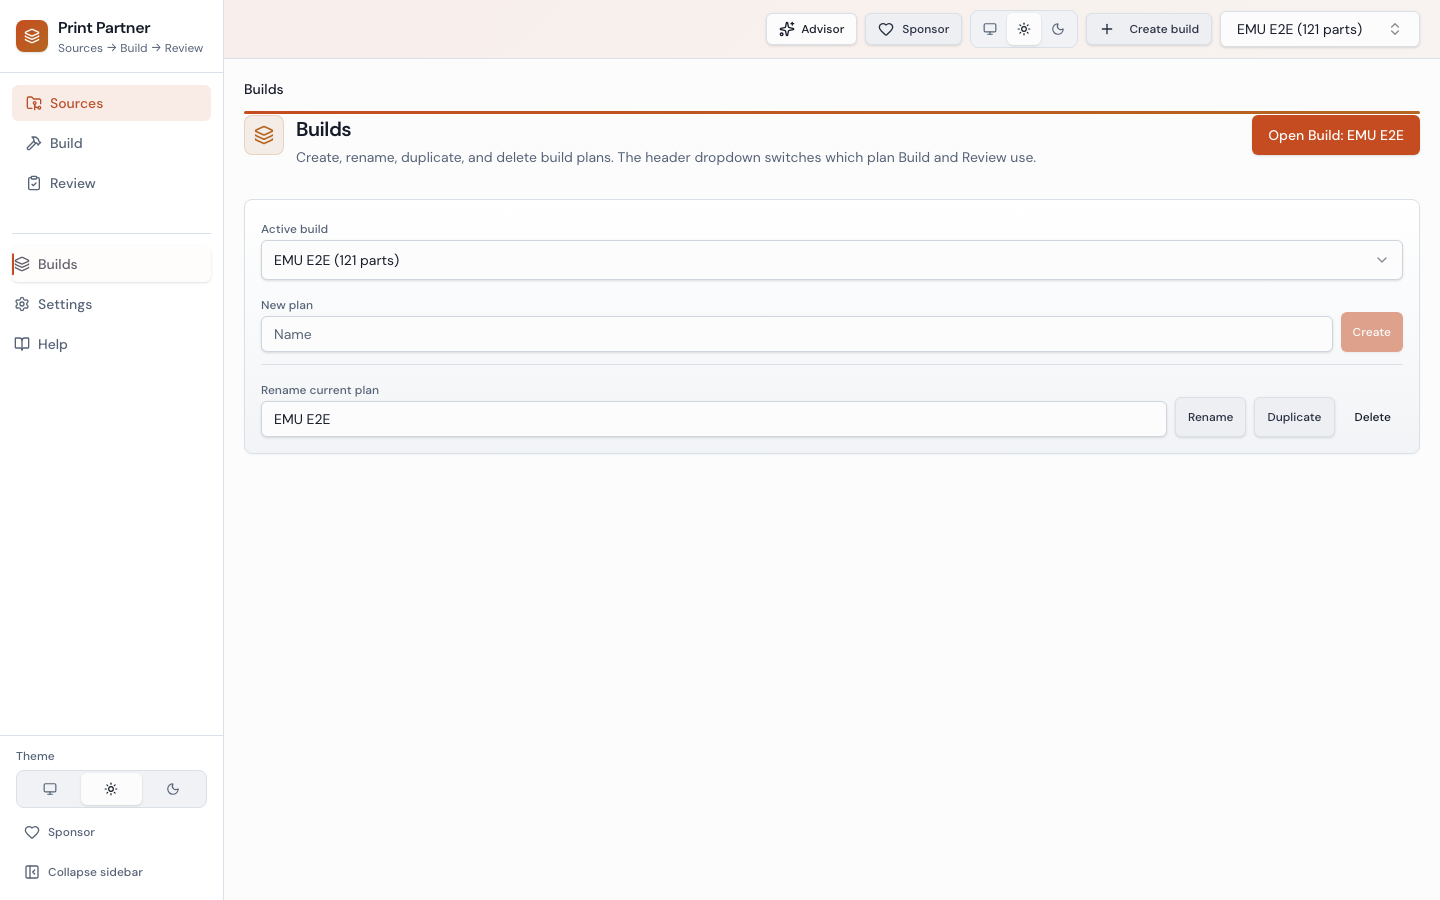
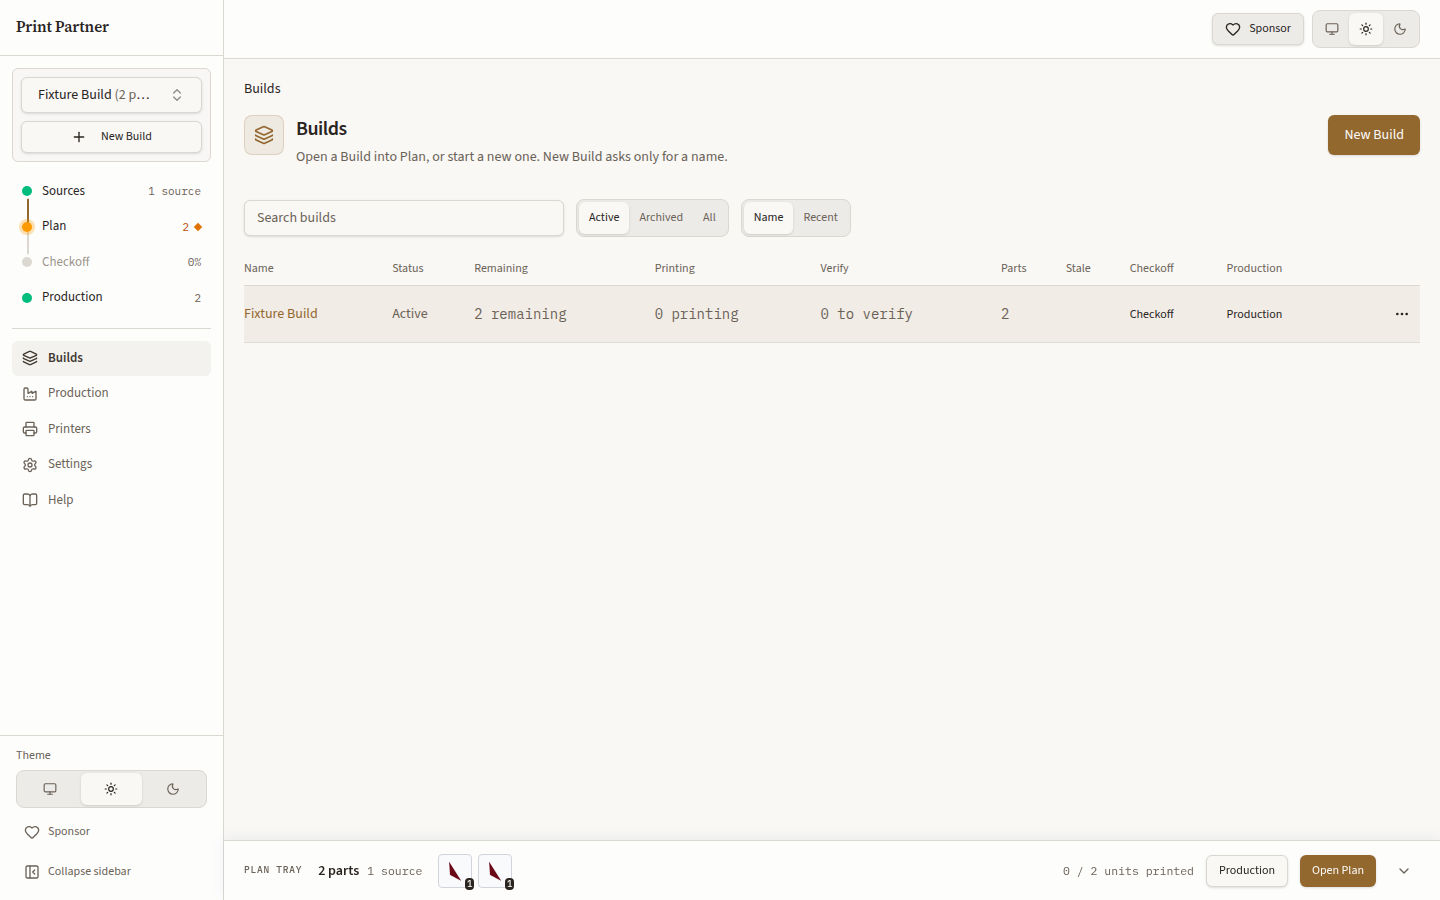
docs: recapture workflow screenshots with representative kit data
Replace stale Review/Advisor shots with the current Builds → Sources →
Plan → Checkoff → Production map, and embed Checkoff and Production PNGs
in the README and project site.

diff --git a/docs/index.html b/docs/index.html
@@ -258,30 +258,30 @@ docker compose pull && docker compose up -d</code></pre>
       </div>
 
       <div class="shot-block">
-        <p class="shot-title">Plans</p>
-        <p class="shot-desc">Dedicated plan manager — create, rename, duplicate, archive. Same actions from Create plan in the header.</p>
+        <p class="shot-title">Builds</p>
+        <p class="shot-desc">List-first home — New Build, open into Plan, archive, and restore.</p>
         <div class="theme-pair">
           <figure>
-            <img src="screenshots/light/builds.png" alt="Plans — light theme" loading="lazy">
+            <img src="screenshots/light/builds.png" alt="Builds — light theme" loading="lazy">
             <figcaption>Light</figcaption>
           </figure>
           <figure>
-            <img src="screenshots/dark/builds.png" alt="Plans — dark theme" loading="lazy">
+            <img src="screenshots/dark/builds.png" alt="Builds — dark theme" loading="lazy">
             <figcaption>Dark</figcaption>
           </figure>
         </div>
       </div>
 
       <div class="shot-block">
-        <p class="shot-title">Plan</p>
-        <p class="shot-desc">Saved planning draft with role colors, STL pickers, proposed quantities, review, and explicit Apply.</p>
+        <p class="shot-title">Sources</p>
+        <p class="shot-desc">Attach sources, pick STLs, and set role colors for a Build.</p>
         <div class="theme-pair">
           <figure>
-            <img src="screenshots/light/build.png" alt="Plan — light theme" loading="lazy">
+            <img src="screenshots/light/build.png" alt="Sources — light theme" loading="lazy">
             <figcaption>Light</figcaption>
           </figure>
           <figure>
-            <img src="screenshots/dark/build.png" alt="Plan — dark theme" loading="lazy">
+            <img src="screenshots/dark/build.png" alt="Sources — dark theme" loading="lazy">
             <figcaption>Dark</figcaption>
           </figure>
         </div>
@@ -303,8 +303,33 @@ docker compose pull && docker compose up -d</code></pre>
       </div>
 
       <div class="shot-block">
-        <p class="shot-title">Checkoff &amp; Production</p>
-        <p class="shot-desc">Checkoff is print verification; Production is plates, downloads, and slicer handoff. Re-run <code>docs/scripts/capture-screenshots.mjs</code> to refresh PNGs for those stages.</p>
+        <p class="shot-title">Checkoff</p>
+        <p class="shot-desc">Per-unit print verification. Remaining parts stay on the sheet until marked done.</p>
+        <div class="theme-pair">
+          <figure>
+            <img src="screenshots/light/progress.png" alt="Checkoff — light theme" loading="lazy">
+            <figcaption>Light</figcaption>
+          </figure>
+          <figure>
+            <img src="screenshots/dark/progress.png" alt="Checkoff — dark theme" loading="lazy">
+            <figcaption>Dark</figcaption>
+          </figure>
+        </div>
+      </div>
+
+      <div class="shot-block">
+        <p class="shot-title">Production</p>
+        <p class="shot-desc">Prepare Plates, named-object 3MF, slicer handoff, and send.</p>
+        <div class="theme-pair">
+          <figure>
+            <img src="screenshots/light/export.png" alt="Production — light theme" loading="lazy">
+            <figcaption>Light</figcaption>
+          </figure>
+          <figure>
+            <img src="screenshots/dark/export.png" alt="Production — dark theme" loading="lazy">
+            <figcaption>Dark</figcaption>
+          </figure>
+        </div>
       </div>
     </section>
 

diff --git a/docs/screenshots/README.md b/docs/screenshots/README.md
@@ -20,7 +20,7 @@ Filenames are stable for README / GitHub Pages embeds. Spine labels and routes:
 - **Checkoff** `/progress`
 - **Production** `/export?profile=` (Build) and `/production` (global)
 
-Optional Progress/Export PNGs (`progress.png`, `export.png`) are captured by the current script. Older `advisor.png` / `settings-ai.png` files (if present) are leftovers from the removed in-app Kit Advisor — do not re-link them from README or Pages.
+Optional Progress/Export PNGs (`progress.png`, `export.png`) are captured by the current script and embedded from README and GitHub Pages. Older `advisor.png` / `settings-ai.png` files (if present) are leftovers from the removed in-app Kit Advisor — do not re-link them from README or Pages.
 
 The root README embeds **light** PNGs. GitHub Pages uses theme pairs for light/dark.
 
@@ -41,20 +41,26 @@ The root README embeds **light** PNGs. GitHub Pages uses theme pairs for light/d
 
 Optional: pass `--profile-id N` to select a specific plan when multiple exist.
 
+To seed a representative Source, accepted Build, and unbound Printer, then capture both themes:
+
+```bash
+node web/apps/web/test/browser/capture-fixture-screenshots.mjs
+```
+
 ## Automated capture (Playwright)
 
-1. Install capture dependencies once:
+The capture script uses system Chrome when `PLAYWRIGHT_CHROMIUM_EXECUTABLE` is set
+(or `/usr/bin/google-chrome`). To use Playwright's bundled Chromium instead:
 
 ```bash
 cd docs/scripts && npm install && npx playwright install chromium
 ```
 
-2. Capture both themes:
+Capture one theme against an already-running app:
 
 ```bash
-cd docs/scripts
-node capture-screenshots.mjs --theme light
-node capture-screenshots.mjs --theme dark
+node docs/scripts/capture-screenshots.mjs --theme light --profile-id 1
+node docs/scripts/capture-screenshots.mjs --theme dark --profile-id 1
 ```
 
 Optional flags:

diff --git a/README.md b/README.md
@@ -135,9 +135,25 @@ Attach sources, pick STLs (live 3D preview), role colors, kit options, **Docs**.
 
 Quantities, warnings, saved draft, and explicit **Apply**.
 
-### Checkoff & Production
+### Checkoff
 
-Print checkoff lives on **Checkoff**. Plates, downloads, slicer handoff, and send live on **Production**. Re-run `docs/scripts/capture-screenshots.mjs` to refresh PNGs for those stages.
+<picture>
+  <source media="(prefers-color-scheme: dark)" srcset="docs/screenshots/dark/progress.png">
+  <source media="(prefers-color-scheme: light)" srcset="docs/screenshots/light/progress.png">
+  <img src="docs/screenshots/light/progress.png" alt="Checkoff — per-unit print verification for remaining parts.">
+</picture>
+
+Track remaining units, bag/sort, and print the checklist.
+
+### Production
+
+<picture>
+  <source media="(prefers-color-scheme: dark)" srcset="docs/screenshots/dark/export.png">
+  <source media="(prefers-color-scheme: light)" srcset="docs/screenshots/light/export.png">
+  <img src="docs/screenshots/light/export.png" alt="Production — Prepare Plates, named-object 3MF, and slicer handoff.">
+</picture>
+
+Assign Required units to Printers, arrange accepted Plates, download revision-bound 3MFs, and send G-code.
 
 ---
 
